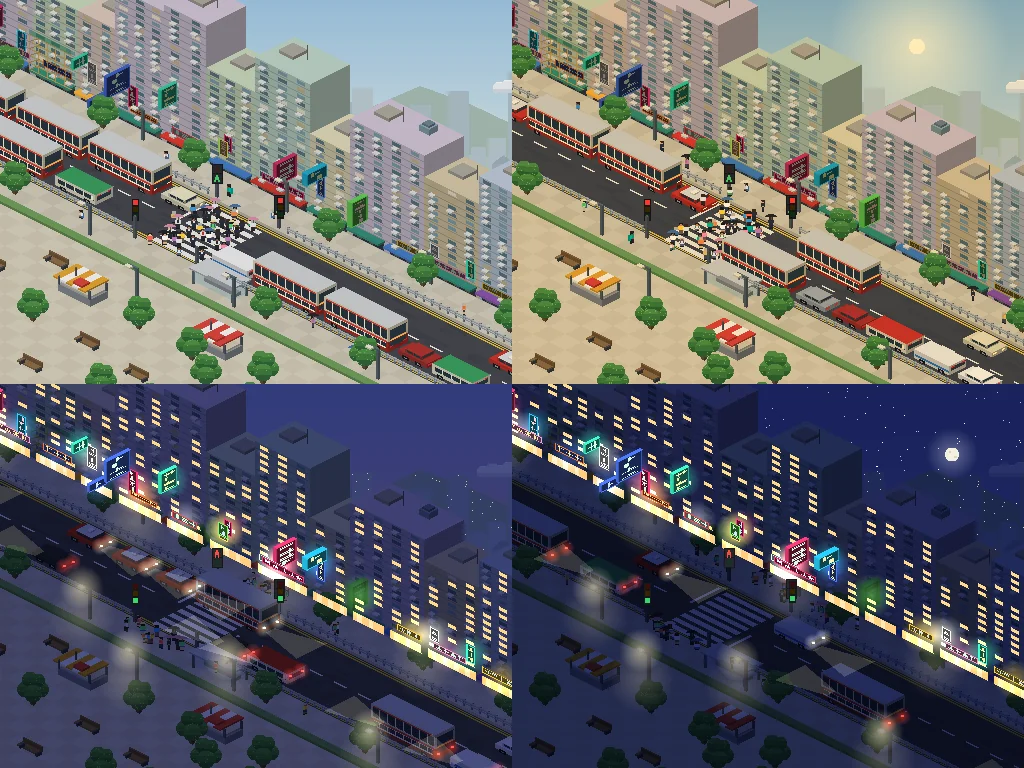
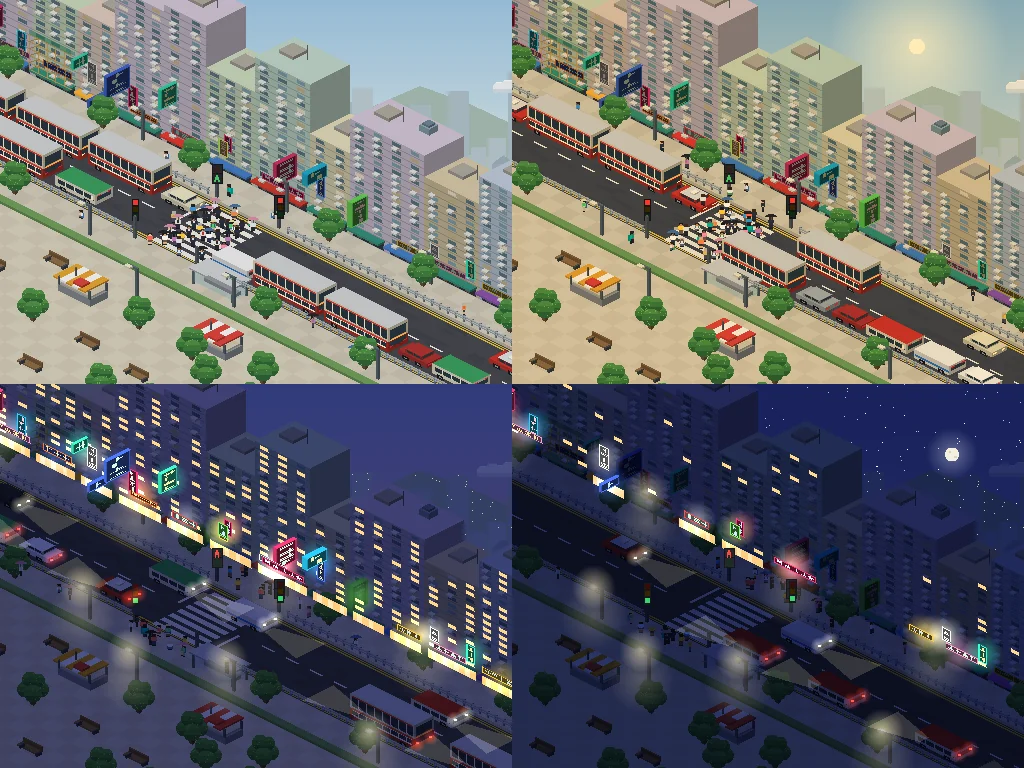
hkg-crossing: crossfade between looks, and late night shuts a lot of the street off
Changing the time of day or season (clock or preview buttons) fades from the old look
over 0.9s. After midnight about 40% of buildings go fully dark, most windows go out,
half the shops and neon signs switch off, and the traffic and crowd already on the
street are thinned. Times-of-day image and write-up updated.

diff --git a/hkg-crossing/scene.js b/hkg-crossing/scene.js
@@ -212,7 +212,7 @@ function drawBuilding(ctx, b, idx) {
       const k = r(), col = k < 0.55 ? PAL.glass : k < 0.8 ? PAL.glass2 : k < 0.92 ? '#a99a78' : '#c9c2ad';
       faceL(ctx, O, uu, uu + 0.52, v, zz, zz + 3.6, col);
       if (r() < 0.5) box(ctx, O, uu + 0.1, v, zz - 2.2, uu + 0.42, v + 0.22, zz - 0.4, { t: '#d6d6d2', l: '#b9b9b6', r: '#8d8d8b' }); // air-con unit
-      if (r() < 0.42) lit.push({ k: 'win', u0: uu, u1: uu + 0.52, v, z0: zz, z1: zz + 3.6 });
+      if (r() < 0.42) lit.push({ k: 'win', bi: idx, u0: uu, u1: uu + 0.52, v, z0: zz, z1: zz + 3.6 });
     }
   }
   // bamboo scaffolding
@@ -236,7 +236,7 @@ function drawBuilding(ctx, b, idx) {
     else Object.assign(sg, { kind: 'banner', w: 0.45 + r() * 0.3, v0: v + 0.02, z0: z0 + GF + 4 + r() * 10, h: 13 + Math.floor(r() * 14) });
     if (sg.kind !== 'blade') sg.u = b.u0 + 0.2 + r() * Math.max(0.05, bw - sg.w - 0.4);
     sg.z1 = sg.z0 + sg.h;
-    signs.push(sg);
+    sg.bi = idx; signs.push(sg);
   }
 }
 
@@ -696,19 +696,23 @@ function stepPhase(dt) {
 // ---------------------------------------------------------------- night layer: lit windows, neon, lamps (pre-rendered), plus per-frame lights
 let emis = null;
 function glow(ctx, x, y, r, col, a) { const gr = ctx.createRadialGradient(x, y, 0, x, y, r); gr.addColorStop(0, col.replace('A', a)); gr.addColorStop(1, col.replace('A', 0)); ctx.fillStyle = gr; ctx.fillRect(x - r, y - r, r * 2, r * 2); }
+const hash01 = (n) => rng(Math.floor(n * 1000) + 12345)();
 function buildEmissive() {
-  const [c, x] = canvasOf(W, H);
-  lit.forEach((w) => faceL(x, O, w.u0, w.u1, w.v, w.z0, w.z1, '#ffd98a'));
-  buildings.forEach((b) => { faceL(x, O, b.u0 + 0.2, b.u1 - 0.2, CFG.farB, CFG.kerb + 0.5, CFG.kerb + GF - 2, '#ffcf80'); for (let u = b.u0 + 0.45; u < b.u1 - 0.5; u += 0.7) faceL(x, O, u, u + 0.28, CFG.farB, CFG.kerb + 1, CFG.kerb + GF - 3, '#ffe9b8'); });
+  const [c, x] = canvasOf(W, H), late = state.period === 'late';
+  // late night: about 40% of the buildings go fully dark, the rest keep only a few windows, and about half the shops and neon signs are off
+  const bOff = (i) => late && hash01(i + 0.5) < 0.4;
+  signs.forEach((sg) => { sg.off = late && (bOff(sg.bi) || hash01(sg.seed * 0.001) < 0.5); });
+  lit.forEach((w) => { if (late && (bOff(w.bi) || hash01(w.u0 * 37 + w.z0 * 11 + w.bi) > 0.16)) return; faceL(x, O, w.u0, w.u1, w.v, w.z0, w.z1, '#ffd98a'); });
+  buildings.forEach((b, bi) => { if (late && (bOff(bi) || hash01(bi + 0.9) < 0.5)) return; faceL(x, O, b.u0 + 0.2, b.u1 - 0.2, CFG.farB, CFG.kerb + 0.5, CFG.kerb + GF - 2, '#ffcf80'); for (let u = b.u0 + 0.45; u < b.u1 - 0.5; u += 0.7) faceL(x, O, u, u + 0.28, CFG.farB, CFG.kerb + 1, CFG.kerb + GF - 3, '#ffe9b8'); });
   lanterns.forEach((l) => { const [px, py] = P(O, l.u + 0.21, CFG.farB + 0.25, l.z + 3.2); x.fillStyle = l.col; x.fillRect(Math.round(px) - 4, Math.round(py) - 3, 8, 7); });
   x.globalCompositeOperation = 'lighter';
   lanterns.forEach((l) => { const [px, py] = P(O, l.u + 0.21, CFG.farB + 0.25, l.z + 3.2), h = hex(l.col); glow(x, px, py, 18, `rgba(${h[0]},${h[1]},${h[2]},A)`, 0.55); });
-  signs.forEach((sg) => { const [px, py] = signCentre(sg); const h = hex(sg.col); glow(x, px, py, Math.max(20, sg.h * 0.9), `rgba(${h[0]},${h[1]},${h[2]},A)`, 0.52); });
+  signs.forEach((sg) => { if (sg.off) return; const [px, py] = signCentre(sg); const h = hex(sg.col); glow(x, px, py, Math.max(20, sg.h * 0.9), `rgba(${h[0]},${h[1]},${h[2]},A)`, 0.52); });
   lamps.forEach(([u, v]) => { const [px, py] = P(O, u, v, CFG.kerb + 27); glow(x, px, py, 22, 'rgba(255,240,190,A)', 0.55); const [gx, gy] = P(O, u, v, CFG.kerb); glow(x, gx, gy + 2, 34, 'rgba(255,236,170,A)', 0.22); });
   x.globalCompositeOperation = 'source-over';
-  signs.forEach((sg) => { if (!sg.flick) drawSign(x, sg, true); });
+  signs.forEach((sg) => { if (!sg.off && !sg.flick) drawSign(x, sg, true); });
   // the far towers' lit windows
-  { const r2 = rng(17); x.fillStyle = 'rgba(255,224,150,.8)'; for (let i = 0, n = 0; i < 1400 && n < 260; i++) { const px = Math.floor(r2() * W), py = Math.floor(r2() * H); if (maskSky[(py * W + px) * 4 + 3] && !maskWorld[(py * W + px) * 4 + 3] && r2() < 0.8) { x.fillRect(px, py, 1, 1); n++; } } }
+  { const r2 = rng(17); x.fillStyle = 'rgba(255,224,150,.8)'; for (let i = 0, n = 0; i < 1400 && n < (late ? 90 : 260); i++) { const px = Math.floor(r2() * W), py = Math.floor(r2() * H); if (maskSky[(py * W + px) * 4 + 3] && !maskWorld[(py * W + px) * 4 + 3] && r2() < 0.8) { x.fillRect(px, py, 1, 1); n++; } } }
   // late night: a moon and a few stars, only where the sky is actually showing
   if (state.period === 'late') {
     const open = (px, py) => px >= 0 && px < W && py >= 0 && py < H && !maskSky[(py * W + px) * 4 + 3] && !maskWorld[(py * W + px) * 4 + 3];
@@ -724,7 +728,7 @@ function buildEmissive() {
 }
 function flickOn(sg) { return ((Math.floor(state.clock * 9 + sg.seed) * 2654435761) >>> 0) % 100 > 14; }
 function drawLights() {
-  g.save(); g.translate(-camX, 0); signs.forEach((sg) => { if (sg.flick && flickOn(sg)) drawSign(g, sg, true); }); g.restore();
+  g.save(); g.translate(-camX, 0); signs.forEach((sg) => { if (!sg.off && sg.flick && flickOn(sg)) drawSign(g, sg, true); }); g.restore();
   g.globalCompositeOperation = 'lighter';
   lanes.forEach((l) => l.list.forEach((c) => {
     const umin = l.dir > 0 ? UL + c.s - c.len : UR - c.s, vc = l.v, fu = l.dir > 0 ? umin + c.len : umin;
@@ -789,6 +793,8 @@ function collect() {
   }));
   items.sort((a, b) => a.k - b.k);
 }
+let fade = null;      // a snapshot of the previous look that fades out over the new one
+function startFade() { if (reduce || !backC) return; const [c, x] = canvasOf(cv.width, cv.height); x.drawImage(cv, 0, 0); fade = { c, t: 0, dur: 0.9 }; }
 function render() {
   g.drawImage(backC, -camX, 0); drawClouds(); g.drawImage(worldC, -camX, 0);
   collect();
@@ -800,12 +806,13 @@ function render() {
     for (const it of headItems) g.drawImage(it.c, it.x - camX, it.y);
     drawLights();
   }
+  if (fade) { g.globalAlpha = Math.max(0, 1 - fade.t / fade.dur); g.drawImage(fade.c, 0, 0); g.globalAlpha = 1; }
 }
 
 // ---------------------------------------------------------------- loop
 const reduce = matchMedia('(prefers-reduced-motion: reduce)').matches;
 let last = 0, raf = 0, visible = true;
-function step(dt) { stepPhase(dt); stepTraffic(dt); stepPeds(dt); stepFx(dt); }
+function step(dt) { stepPhase(dt); stepTraffic(dt); stepPeds(dt); stepFx(dt); if (fade) { fade.t += dt; if (fade.t >= fade.dur) fade = null; } }
 function frame(now) {
   raf = 0; if (!visible || document.hidden) { last = 0; return; }
   const dt = last ? Math.min(0.05, (now - last) / 1000) : 0.016; last = now;
@@ -841,9 +848,12 @@ function fit() {
   const w = cv.parentElement.clientWidth, vw = w >= 600 ? W : 360;
   if (cv.width !== vw) { cv.width = vw; cv.height = H; camX = Math.max(0, Math.min(W - vw, CFG.cx - vw / 2)); g.imageSmoothingEnabled = false; render(); }
 }
-function rebuildClock() {          // the look follows the clock: rebuild when the period or season changes
+function rebuildClock() {          // the look follows the clock: rebuild when the period or season changes (and fade from the old look)
+  startFade();
   treeCache && Object.keys(treeCache).forEach((k) => delete treeCache[k]); Object.keys(pedCache).forEach((k) => delete pedCache[k]);
-  LOOKS = makeLooks(); buildProps(); resetFx(); buildStatic(); buildEmissive(); describe(); render();
+  LOOKS = makeLooks(); buildProps(); resetFx(); buildStatic(); buildEmissive(); describe();
+  if (state.quietHours) { lanes.forEach((l) => { l.list = l.list.filter((c, i) => i % 3 === 0); }); for (let i = peds.length - 1; i >= 0; i--) if (i % 3) peds.splice(i, 1); }   // the small hours: thin out what's already on the street (the fade hides the cut)
+  render();
 }
 setInterval(() => { if (applyClock()) rebuildClock(); }, 30000);
 if ('ResizeObserver' in window) new ResizeObserver(fit).observe(cv.parentElement); fit(); describe();

diff --git a/hkg-crossing/direction/index.html b/hkg-crossing/direction/index.html
@@ -134,7 +134,7 @@ dialog.real::backdrop { background: rgba(4,4,6,.82); }
     <p>A lamp and a button were enough to carry the sound for a while, but a crossing is really about the people on it. So the page is now a small isometric Hong Kong street, drawn entirely in code with no image files, and it runs off every edge of the picture like a real street does: tenements with air-con units and neon signs, tall double-decker buses, red taxis and minibuses driving on the left, a plaza with trees and a dai pai dong, and a proper crowd. The push button floats at the bottom-left of the street. Press it and it plays out. The crowd gathers at both kerbs while the car lights go amber, then red. The scramble starts on the green man, the last few hurry on the flashing green, and the traffic pulls away when it's over.</p>
     <img class="shot wide" src="shots/5-street-day.webp" alt="An isometric pixel-art Hong Kong street in spring daylight with a crowd crossing a zebra crossing between stopped taxis and buses" width="846" height="635" loading="lazy">
     <p class="cap">The green man: cars stopped at the lights, the crowd on the zebra. Preview any moment with ?phase=wait, walk or clear.</p>
-    <p>It follows your clock. Every six hours the street changes: a cool morning with a low sun, a warm bright afternoon, an evening from 6pm with the neon and windows lit and the headlights on, and a late night after midnight with a moon, stars, fewer cars and a thin crowd, quiet along with the sound. Behind the towers sit Victoria Peak and two rows of hazy far towers, with clouds drifting past, and their windows light up at night too.</p>
+    <p>It follows your clock. Every six hours the street changes: a cool morning with a low sun, a warm bright afternoon, an evening from 6pm with the neon and windows lit and the headlights on, and a late night after midnight with a moon, stars, fewer cars and a thin crowd, quiet along with the sound. After midnight a lot of the street goes dark: some buildings switch off entirely, most windows go out and half the neon signs with them. Changes between looks fade rather than cut. Behind the towers sit Victoria Peak and two rows of hazy far towers, with clouds drifting past, and their windows light up at night too.</p>
     <img class="shot wide" src="shots/6-street-times.webp" alt="Four views of the same street: morning, afternoon, evening with glowing neon, and late night with a moon" width="1024" height="768" loading="lazy">
     <p class="cap">Morning, afternoon, evening and late night, in summer. Try ?hour=2.</p>
     <p>It also follows the calendar. In spring the trees blossom and petals drift down, in summer the street is lush and people carry sun umbrellas, in autumn the leaves turn and fall, and in winter people wrap up, the trees thin out, and red lanterns go up on the buildings. The people change what they wear to match. Under the street there are Time and Season buttons, so you don't have to wait for the calendar to see any of it. They only change the picture: the sound's quiet hours still follow your real clock.</p>

diff --git a/CLAUDE.md b/CLAUDE.md
@@ -74,6 +74,7 @@ The tick of a Hong Kong pedestrian crossing, synthesised with the Web Audio API 
 - Autostart: the idle red-man tick starts on load (`$('power').click()` with `state.quietStart`, so no green phase flashes through the scene). Browsers keep the AudioContext suspended until the first gesture, so a first pointerdown/keydown/touch resumes it and a "Tap anywhere to start the sound." line shows until it is running.
 - Sprites: iso-box sprites (`sprite()`) are drawn on a big scratch canvas and trimmed to their painted bounds, so a corner can never be clipped (the old fixed-size canvases clipped the bus shelter, benches, stalls and guardrail at their bottom-right). Signal heads use `spriteRaw()` (fixed canvas, own pixels).
 - Sky and backdrop: `backC` (sky gradient, a sun that follows the period and is hidden by winter overcast, Victoria Peak, two rows of hazy far towers with antennas and crowns) is drawn first, then drifting pixel clouds (count and greyness by season, `buildClouds`/`drawClouds`), then `worldC` (the street). The far towers' windows light up at night. Only the top-right of the view shows sky; the towers poke above the near rooftops.
+- Transitions: changing the period or season (clock, or the preview buttons) crossfades: `startFade()` snapshots the canvas and `render()` draws that snapshot at decreasing alpha over the new look for 0.9s (skipped under reduced motion). Late night (0-6) shuts a lot off: about 40% of buildings go fully dark, the rest keep ~16% of their windows, about half the shops and neon signs are off (deterministic hashes, `buildEmissive`), and entering it thins the traffic and crowd already on the street.
 - Preview controls: a Time row (Auto, Morning, Afternoon, Evening, Late night) and a Season row (Auto, Spring, Summer, Autumn, Winter) under the scene call `HKG_SCENE.setClock(hour|null, season|null)`; null falls back to the clock or `?hour=`/`?season=`. They change the picture only: the sound's quiet hours stay on the real clock.
 - Neon signs: three kinds (blade sticking out of the wall, fascia board over the shop, tall hanging banner), 12 neon colours, optional contrasting frame, pseudo-lettering built from seeded strokes (illegible on purpose), one sign in five flickers at night (drawn live each frame, the rest are in the pre-rendered emissive layer).
 - Cover: `hkg-crossing/cover.webp` (from `originals/hkg-crossing/cover.png`, 1000x475, `fit: 'cover'`): the street in autumn, day on the left and night on the right, zoomed on the crossing, composed from `?bare&hour=14&month=10&phase=walk` and `?bare&hour=21&month=10&phase=wait` renders at 1280x960 (cropped 1000x475 starting at x=80,y=230, so more building and less plaza) on the same slight diagonal as the ocean cover (top 46%, bottom 54%) (`?bare` hides everything but the scene). `cover.og.jpg` is the same composite at 1200x630. Buses are 24px tall (`VT.bus.bh`); `HKG_SCENE.force(lane, type, s)` puts a vehicle on screen to check a sprite.
